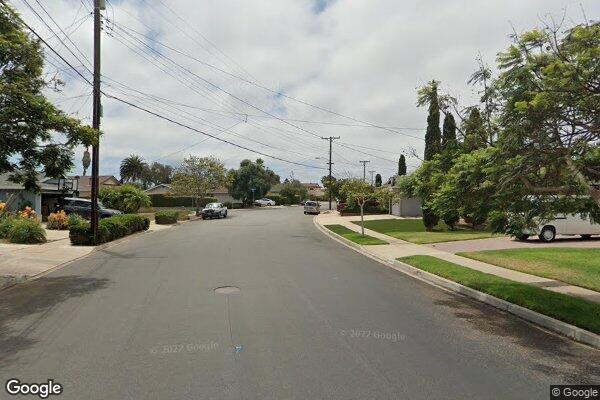
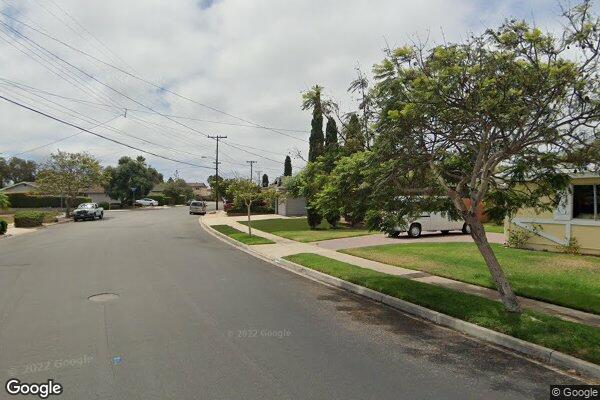
Enabled secret signature

diff --git a/imagecollection.py b/imagecollection.py
@@ -30,22 +30,28 @@ def sign_url(input_url=None, secret=None):
     # Encode the binary signature into base64 for use within a URL
     encoded_signature = base64.urlsafe_b64encode(signature.digest())
 
+    original_url = url.scheme + "://" + url.netloc + url.path + "?" + url.query
+
     # Return signed URL
-    return "&signature=" + encoded_signature.decode()
+    return original_url + "&signature=" + encoded_signature.decode()
 
 load_dotenv()
 api_key = os.getenv("API_KEY")
 sign_key = os.getenv("SIGN_KEY")
-url = os.getenv("URL")
-# api_secret = sign_url(url, sign_key)
-# print(api_secret)
+base_url = os.getenv("URL")
+url = f"{base_url}size=600x400&location=32.86782,-117.231&fov=80&heading=70&pitch=0&key={api_key}"
+api_secret = sign_url(url, sign_key)
+request = requests.get(api_secret)
+print(request)
 
-#request = requests.get(f"{url}size=600x400&location=32.86782,-117.231&fov=80&heading=70&pitch=0&key={api_key}{api_secret}")
-#print(request)
+
+# request = requests.get(f"{url}size=600x400&location=32.86782,-117.231&fov=80&heading=70&pitch=0&key={api_key}{api_secret}")
+# print(request)
+# print(f"{url}size=600x400&location=32.86782,-117.231&fov=80&heading=70&pitch=0&key={api_key}{api_secret}")
 
 lat_coord = 32.85631
 long_coord = -117.207
-heading = 150
+heading = 165
 fov = 70
 pitch = 0
 request = requests.get(f"{url}size=600x400&location={lat_coord},{long_coord}&fov={fov}&heading={heading}&pitch={pitch}&key={api_key}")
